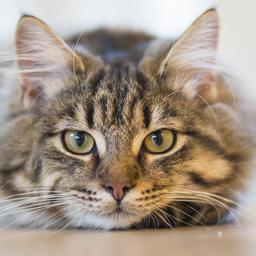
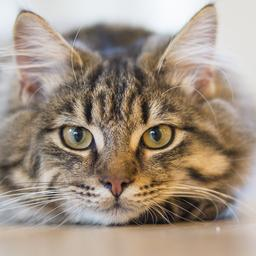
Publishing to gh-pages (publish.sh)

diff --git a/galleries/cats/index.html b/galleries/cats/index.html
@@ -23,7 +23,7 @@
       
 <figure itemprop="associatedMedia" itemscope
 itemtype="https://schema.org/ImageObject">
-  <a href="/HugoPhotoSwipe-Demo/pics/cats/large/cat-animal-cat-portrait-mackerel_1600x1093.jpg" itemprop="contentUrl" data-size="1600x1093" data-medium-url="/HugoPhotoSwipe-Demo/pics/cats/small/cat-animal-cat-portrait-mackerel_800x546.jpg" data-medium-size="800x546">
+  <a href="/HugoPhotoSwipe-Demo/pics/cats/large/cat-animal-cat-portrait-mackerel_1600x1093.jpg" itemprop="contentUrl" data-size="1600x1093" data-medium-url="/HugoPhotoSwipe-Demo/pics/cats/small/cat-animal-cat-portrait-mackerel_800x547.jpg" data-medium-size="800x547">
     <img alt="None" data-size="256x256" itemprop="thumbnail" src="/HugoPhotoSwipe-Demo/pics/cats/thumb/cat-animal-cat-portrait-mackerel_256x256.jpg">
   </a>
   <figcaption itemprop="caption description">
@@ -35,7 +35,7 @@ itemtype="https://schema.org/ImageObject">
 
 <figure itemprop="associatedMedia" itemscope
 itemtype="https://schema.org/ImageObject">
-  <a href="/HugoPhotoSwipe-Demo/pics/cats/large/cat-pet-animal-domestic-104827_1599x1062.jpg" itemprop="contentUrl" data-size="1599x1062" data-medium-url="/HugoPhotoSwipe-Demo/pics/cats/small/cat-pet-animal-domestic-104827_799x531.jpg" data-medium-size="799x531">
+  <a href="/HugoPhotoSwipe-Demo/pics/cats/large/cat-pet-animal-domestic-104827_1600x1063.jpg" itemprop="contentUrl" data-size="1600x1063" data-medium-url="/HugoPhotoSwipe-Demo/pics/cats/small/cat-pet-animal-domestic-104827_800x531.jpg" data-medium-size="800x531">
     <img alt="None" data-size="256x256" itemprop="thumbnail" src="/HugoPhotoSwipe-Demo/pics/cats/thumb/cat-pet-animal-domestic-104827_256x256.jpg">
   </a>
   <figcaption itemprop="caption description">
@@ -47,7 +47,7 @@ itemtype="https://schema.org/ImageObject">
 
 <figure itemprop="associatedMedia" itemscope
 itemtype="https://schema.org/ImageObject">
-  <a href="/HugoPhotoSwipe-Demo/pics/cats/large/kittens-cat-cat-puppy-rush-45170_1600x889.jpg" itemprop="contentUrl" data-size="1600x889" data-medium-url="/HugoPhotoSwipe-Demo/pics/cats/small/kittens-cat-cat-puppy-rush-45170_800x444.jpg" data-medium-size="800x444">
+  <a href="/HugoPhotoSwipe-Demo/pics/cats/large/kittens-cat-cat-puppy-rush-45170_1600x889.jpg" itemprop="contentUrl" data-size="1600x889" data-medium-url="/HugoPhotoSwipe-Demo/pics/cats/small/kittens-cat-cat-puppy-rush-45170_800x445.jpg" data-medium-size="800x445">
     <img alt="None" data-size="256x256" itemprop="thumbnail" src="/HugoPhotoSwipe-Demo/pics/cats/thumb/kittens-cat-cat-puppy-rush-45170_256x256.jpg">
   </a>
   <figcaption itemprop="caption description">
@@ -71,7 +71,7 @@ itemtype="https://schema.org/ImageObject">
 
 <figure itemprop="associatedMedia" itemscope
 itemtype="https://schema.org/ImageObject">
-  <a href="/HugoPhotoSwipe-Demo/pics/cats/large/pexels-photo-127028_1599x1066.jpg" itemprop="contentUrl" data-size="1599x1066" data-medium-url="/HugoPhotoSwipe-Demo/pics/cats/small/pexels-photo-127028_799x533.jpg" data-medium-size="799x533">
+  <a href="/HugoPhotoSwipe-Demo/pics/cats/large/pexels-photo-127028_1600x1067.jpg" itemprop="contentUrl" data-size="1600x1067" data-medium-url="/HugoPhotoSwipe-Demo/pics/cats/small/pexels-photo-127028_800x533.jpg" data-medium-size="800x533">
     <img alt="None" data-size="256x256" itemprop="thumbnail" src="/HugoPhotoSwipe-Demo/pics/cats/thumb/pexels-photo-127028_256x256.jpg">
   </a>
   <figcaption itemprop="caption description">
@@ -95,7 +95,7 @@ itemtype="https://schema.org/ImageObject">
 
 <figure itemprop="associatedMedia" itemscope
 itemtype="https://schema.org/ImageObject">
-  <a href="/HugoPhotoSwipe-Demo/pics/cats/large/pexels-photo-62640_1600x1063.jpg" itemprop="contentUrl" data-size="1600x1063" data-medium-url="/HugoPhotoSwipe-Demo/pics/cats/small/pexels-photo-62640_800x531.jpg" data-medium-size="800x531">
+  <a href="/HugoPhotoSwipe-Demo/pics/cats/large/pexels-photo-62640_1600x1064.jpg" itemprop="contentUrl" data-size="1600x1064" data-medium-url="/HugoPhotoSwipe-Demo/pics/cats/small/pexels-photo-62640_800x532.jpg" data-medium-size="800x532">
     <img alt="None" data-size="256x256" itemprop="thumbnail" src="/HugoPhotoSwipe-Demo/pics/cats/thumb/pexels-photo-62640_256x256.jpg">
   </a>
   <figcaption itemprop="caption description">
@@ -107,7 +107,7 @@ itemtype="https://schema.org/ImageObject">
 
 <figure itemprop="associatedMedia" itemscope
 itemtype="https://schema.org/ImageObject">
-  <a href="/HugoPhotoSwipe-Demo/pics/cats/large/pexels-photo-96938_1600x983.jpg" itemprop="contentUrl" data-size="1600x983" data-medium-url="/HugoPhotoSwipe-Demo/pics/cats/small/pexels-photo-96938_800x491.jpg" data-medium-size="800x491">
+  <a href="/HugoPhotoSwipe-Demo/pics/cats/large/pexels-photo-96938_1600x984.jpg" itemprop="contentUrl" data-size="1600x984" data-medium-url="/HugoPhotoSwipe-Demo/pics/cats/small/pexels-photo-96938_800x492.jpg" data-medium-size="800x492">
     <img alt="None" data-size="256x256" itemprop="thumbnail" src="/HugoPhotoSwipe-Demo/pics/cats/thumb/pexels-photo-96938_256x256.jpg">
   </a>
   <figcaption itemprop="caption description">
@@ -131,7 +131,7 @@ itemtype="https://schema.org/ImageObject">
 
 <figure itemprop="associatedMedia" itemscope
 itemtype="https://schema.org/ImageObject">
-  <a href="/HugoPhotoSwipe-Demo/pics/cats/large/pexels-photo_001_1600x1066.jpg" itemprop="contentUrl" data-size="1600x1066" data-medium-url="/HugoPhotoSwipe-Demo/pics/cats/small/pexels-photo_001_800x533.jpg" data-medium-size="800x533">
+  <a href="/HugoPhotoSwipe-Demo/pics/cats/large/pexels-photo_001_1600x1067.jpg" itemprop="contentUrl" data-size="1600x1067" data-medium-url="/HugoPhotoSwipe-Demo/pics/cats/small/pexels-photo_001_800x533.jpg" data-medium-size="800x533">
     <img alt="None" data-size="256x256" itemprop="thumbnail" src="/HugoPhotoSwipe-Demo/pics/cats/thumb/pexels-photo_001_256x256.jpg">
   </a>
   <figcaption itemprop="caption description">

diff --git a/galleries/dogs/index.html b/galleries/dogs/index.html
@@ -23,7 +23,7 @@
       
 <figure itemprop="associatedMedia" itemscope
 itemtype="https://schema.org/ImageObject">
-  <a href="/HugoPhotoSwipe-Demo/pics/dogs/large/chihuahua_in_a_cup_1600x1066.jpg" itemprop="contentUrl" data-size="1600x1066" data-medium-url="/HugoPhotoSwipe-Demo/pics/dogs/small/chihuahua_in_a_cup_800x533.jpg" data-medium-size="800x533">
+  <a href="/HugoPhotoSwipe-Demo/pics/dogs/large/chihuahua_in_a_cup_1600x1067.jpg" itemprop="contentUrl" data-size="1600x1067" data-medium-url="/HugoPhotoSwipe-Demo/pics/dogs/small/chihuahua_in_a_cup_800x533.jpg" data-medium-size="800x533">
     <img alt="cute chihuahua in a cup" data-size="256x256" itemprop="thumbnail" src="/HugoPhotoSwipe-Demo/pics/dogs/thumb/chihuahua_in_a_cup_256x256.jpg">
   </a>
   <figcaption itemprop="caption description">
@@ -35,7 +35,7 @@ itemtype="https://schema.org/ImageObject">
 
 <figure itemprop="associatedMedia" itemscope
 itemtype="https://schema.org/ImageObject">
-  <a href="/HugoPhotoSwipe-Demo/pics/dogs/large/pexels-photo-117486_1600x1066.jpg" itemprop="contentUrl" data-size="1600x1066" data-medium-url="/HugoPhotoSwipe-Demo/pics/dogs/small/pexels-photo-117486_800x533.jpg" data-medium-size="800x533">
+  <a href="/HugoPhotoSwipe-Demo/pics/dogs/large/pexels-photo-117486_1600x1067.jpg" itemprop="contentUrl" data-size="1600x1067" data-medium-url="/HugoPhotoSwipe-Demo/pics/dogs/small/pexels-photo-117486_800x533.jpg" data-medium-size="800x533">
     <img alt="None" data-size="256x256" itemprop="thumbnail" src="/HugoPhotoSwipe-Demo/pics/dogs/thumb/pexels-photo-117486_256x256.jpg">
   </a>
   <figcaption itemprop="caption description">
@@ -47,7 +47,7 @@ itemtype="https://schema.org/ImageObject">
 
 <figure itemprop="associatedMedia" itemscope
 itemtype="https://schema.org/ImageObject">
-  <a href="/HugoPhotoSwipe-Demo/pics/dogs/large/pexels-photo-139519_1600x1066.jpg" itemprop="contentUrl" data-size="1600x1066" data-medium-url="/HugoPhotoSwipe-Demo/pics/dogs/small/pexels-photo-139519_800x533.jpg" data-medium-size="800x533">
+  <a href="/HugoPhotoSwipe-Demo/pics/dogs/large/pexels-photo-139519_1600x1067.jpg" itemprop="contentUrl" data-size="1600x1067" data-medium-url="/HugoPhotoSwipe-Demo/pics/dogs/small/pexels-photo-139519_800x533.jpg" data-medium-size="800x533">
     <img alt="None" data-size="256x256" itemprop="thumbnail" src="/HugoPhotoSwipe-Demo/pics/dogs/thumb/pexels-photo-139519_256x256.jpg">
   </a>
   <figcaption itemprop="caption description">
@@ -59,7 +59,7 @@ itemtype="https://schema.org/ImageObject">
 
 <figure itemprop="associatedMedia" itemscope
 itemtype="https://schema.org/ImageObject">
-  <a href="/HugoPhotoSwipe-Demo/pics/dogs/large/pexels-photo-192550_1600x1066.jpg" itemprop="contentUrl" data-size="1600x1066" data-medium-url="/HugoPhotoSwipe-Demo/pics/dogs/small/pexels-photo-192550_800x533.jpg" data-medium-size="800x533">
+  <a href="/HugoPhotoSwipe-Demo/pics/dogs/large/pexels-photo-192550_1600x1067.jpg" itemprop="contentUrl" data-size="1600x1067" data-medium-url="/HugoPhotoSwipe-Demo/pics/dogs/small/pexels-photo-192550_800x533.jpg" data-medium-size="800x533">
     <img alt="None" data-size="256x256" itemprop="thumbnail" src="/HugoPhotoSwipe-Demo/pics/dogs/thumb/pexels-photo-192550_256x256.jpg">
   </a>
   <figcaption itemprop="caption description">
@@ -71,7 +71,7 @@ itemtype="https://schema.org/ImageObject">
 
 <figure itemprop="associatedMedia" itemscope
 itemtype="https://schema.org/ImageObject">
-  <a href="/HugoPhotoSwipe-Demo/pics/dogs/large/pexels-photo-57627_1600x1066.jpg" itemprop="contentUrl" data-size="1600x1066" data-medium-url="/HugoPhotoSwipe-Demo/pics/dogs/small/pexels-photo-57627_800x533.jpg" data-medium-size="800x533">
+  <a href="/HugoPhotoSwipe-Demo/pics/dogs/large/pexels-photo-57627_1600x1067.jpg" itemprop="contentUrl" data-size="1600x1067" data-medium-url="/HugoPhotoSwipe-Demo/pics/dogs/small/pexels-photo-57627_800x533.jpg" data-medium-size="800x533">
     <img alt="None" data-size="256x256" itemprop="thumbnail" src="/HugoPhotoSwipe-Demo/pics/dogs/thumb/pexels-photo-57627_256x256.jpg">
   </a>
   <figcaption itemprop="caption description">
@@ -95,7 +95,7 @@ itemtype="https://schema.org/ImageObject">
 
 <figure itemprop="associatedMedia" itemscope
 itemtype="https://schema.org/ImageObject">
-  <a href="/HugoPhotoSwipe-Demo/pics/dogs/large/pexels-photo-60254_1600x1066.jpg" itemprop="contentUrl" data-size="1600x1066" data-medium-url="/HugoPhotoSwipe-Demo/pics/dogs/small/pexels-photo-60254_800x533.jpg" data-medium-size="800x533">
+  <a href="/HugoPhotoSwipe-Demo/pics/dogs/large/pexels-photo-60254_1600x1067.jpg" itemprop="contentUrl" data-size="1600x1067" data-medium-url="/HugoPhotoSwipe-Demo/pics/dogs/small/pexels-photo-60254_800x533.jpg" data-medium-size="800x533">
     <img alt="None" data-size="256x256" itemprop="thumbnail" src="/HugoPhotoSwipe-Demo/pics/dogs/thumb/pexels-photo-60254_256x256.jpg">
   </a>
   <figcaption itemprop="caption description">
